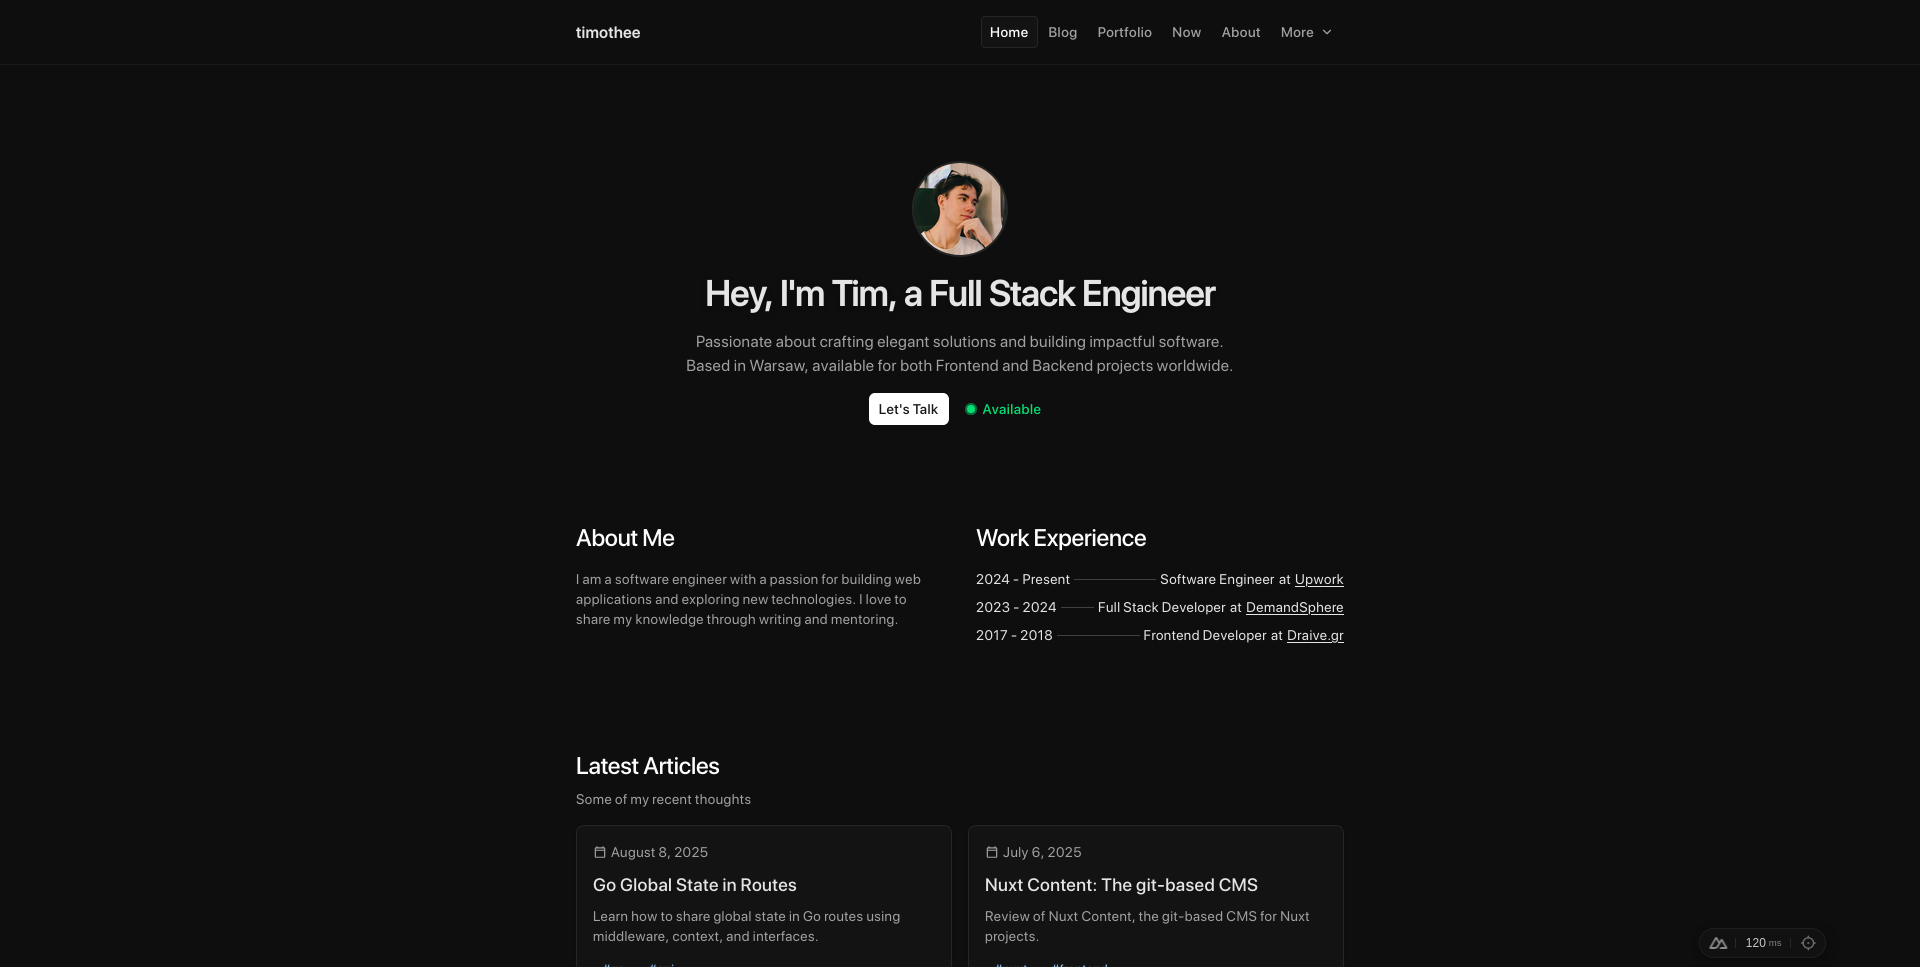
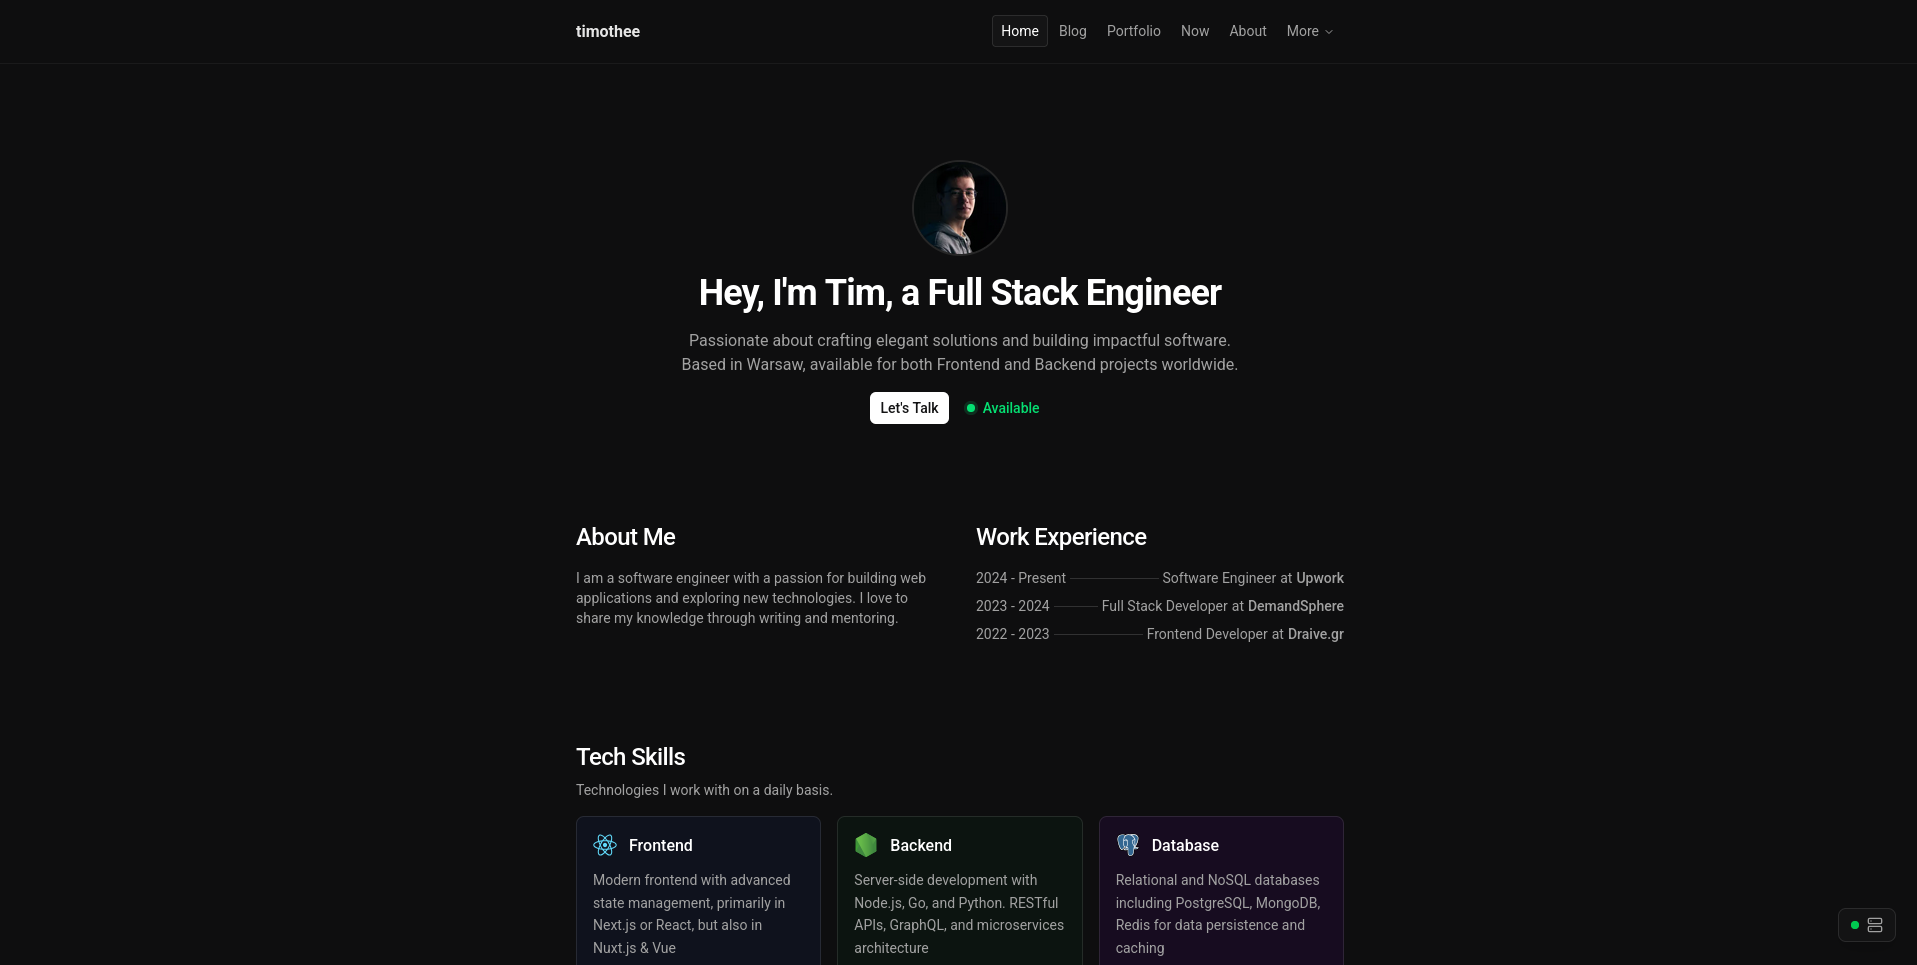
Version 0.1.0

diff --git a/app/components/skills/skills-bento.tsx b/app/components/skills/skills-bento.tsx
@@ -53,7 +53,7 @@ const SkillCard = ({
   return (
     <div
       className={cn(
-        "group relative overflow-hidden rounded-lg border bg-card p-4 transition-all duration-300 hover:shadow-md hover:border-muted-foreground/20",
+        "group relative overflow-hidden rounded-lg border bg-card p-4",
         category.bgColor,
         size === "large" && "p-6",
         size === "small" && "p-3"
@@ -96,15 +96,65 @@ const SkillCard = ({
 };
 
 const SkillsBento: React.FC<SkillsBentoProps> = ({ skills, className }) => {
+  // Group skills into rows for precise control over layout
+  const rows = [];
+  for (let i = 0; i < skills.length; i += 3) {
+    rows.push(skills.slice(i, Math.min(i + 3, skills.length)));
+  }
+  
   return (
     <div className={cn("w-full", className)}>
-      <div className="grid grid-cols-1 md:grid-cols-2 lg:grid-cols-3 gap-4">
-        {skills.map((skill) => (
-          <SkillCard key={skill.title} skill={skill} size="default" />
-        ))}
-      </div>
+      {rows.map((row, rowIndex) => (
+        <div 
+          key={`row-${rowIndex}`}
+          className="mb-4 last:mb-0"
+        >
+          {/* Mobile: 1 column layout */}
+          <div className="grid grid-cols-1 gap-4 md:hidden">
+            {row.map((skill) => (
+              <SkillCard key={`mobile-${skill.title}`} skill={skill} size="default" />
+            ))}
+          </div>
+          
+          {/* Tablet: 2 column layout with special handling for incomplete rows */}
+          <div className="hidden md:grid lg:hidden gap-4">
+            {row.length === 1 ? (
+              // Single item row - full width
+              <div className="grid grid-cols-1 gap-4">
+                <SkillCard key={`tablet-${row[0].title}`} skill={row[0]} size="default" />
+              </div>
+            ) : row.length === 2 ? (
+              // Two item row - split evenly
+              <div className="grid grid-cols-2 gap-4">
+                {row.map((skill) => (
+                  <SkillCard key={`tablet-${skill.title}`} skill={skill} size="default" />
+                ))}
+              </div>
+            ) : (
+              // Three item row - 2 columns (tablet can't fit 3 columns well)
+              <div className="grid grid-cols-2 gap-4">
+                <SkillCard key={`tablet-${row[0].title}`} skill={row[0]} size="default" />
+                <SkillCard key={`tablet-${row[1].title}`} skill={row[1]} size="default" />
+                <div className="col-span-2">
+                  <SkillCard key={`tablet-${row[2].title}`} skill={row[2]} size="default" />
+                </div>
+              </div>
+            )}
+          </div>
+          
+          {/* Desktop: 3 column layout with even distribution for incomplete rows */}
+          <div className="hidden lg:grid gap-4" 
+            style={{
+              gridTemplateColumns: row.length === 1 ? "1fr" : row.length === 2 ? "1fr 1fr" : "1fr 1fr 1fr"
+            }}
+          >
+            {row.map((skill) => (
+              <SkillCard key={`desktop-${skill.title}`} skill={skill} size="default" />
+            ))}
+          </div>
+        </div>
+      ))}
     </div>
   );
 };
-
 export default SkillsBento;

diff --git a/app/components/portfolio/project-card.tsx b/app/components/portfolio/project-card.tsx
@@ -1,14 +1,16 @@
 "use client";
 
 import Link from "next/link";
-import { useEffect, useState } from "react";
+import { useState } from "react";
 import { PortfolioItem } from "@/lib/types/data/portfolio";
-import { Calendar, ExternalLink, Github } from "lucide-react";
+import { Calendar, ExternalLink } from "lucide-react";
 import { Button } from "@/app/components/button";
 import { IconBrandGithub } from "@tabler/icons-react";
 import { formatDate } from "@/lib/utils";
 import ProjectState from "./project-state";
 import ImageModal from "../ImageModal";
+import Tag from "@/app/components/blog/shared/tag/tag";
+import Image from "next/image";
 
 type ProjectProps = PortfolioItem;
 
@@ -40,8 +42,15 @@ function ProjectCard(props: ProjectProps) {
             <p className="text-muted-foreground text-sm break-words hyphens-auto flex-1">
               {description}
             </p>
+            {tags && tags.length > 0 && (
+              <div className="flex flex-wrap gap-1.5">
+                {tags.map((tag, index) => (
+                  <Tag variant="subtle" key={`${tag}-${index}`} name={tag} />
+                ))}
+              </div>
+            )}
             <div className="flex gap-2 mt-auto pt-2">
-              {source && (
+              {source ? (
                 <Button variant="outline" size="sm" asChild>
                   <Link
                     href={source}
@@ -53,7 +62,14 @@ function ProjectCard(props: ProjectProps) {
                     Source
                   </Link>
                 </Button>
-              )}
+              ) : <>
+                <Button variant="outline" size="sm" disabled>
+                  <div className="flex items-center gap-1 py-1">
+                    <IconBrandGithub className="w-4 h-4 mr-1" />
+                    Private Repository
+                  </div>
+                </Button>
+              </>}
               {preview && (
                 <Button variant="outline" size="sm" asChild>
                   <Link
@@ -70,8 +86,22 @@ function ProjectCard(props: ProjectProps) {
             </div>
           </div>
           <div className="hidden sm:block rounded h-[125px] aspect-[16/9] shrink-0 overflow-hidden group">
-            {image && (
+            {/* {image && (
               <img
+                src={image}
+                alt={title}
+                className="object-cover h-full w-full cursor-zoom-in hover:opacity-80  transition-transform duration-300 group-hover:scale-105 select-none"
+                loading="lazy"
+                onClick={() => {
+                  setOpen(true);
+                }}
+              />
+            )} */}
+            {image && (
+              <Image
+                height={250}
+                width={250 * (16 / 9)}
+                quality={100}
                 src={image}
                 alt={title}
                 className="object-cover h-full w-full cursor-zoom-in hover:opacity-80  transition-transform duration-300 group-hover:scale-105 select-none"

diff --git a/app/components/github/github_heroSection.tsx b/app/components/github/github_heroSection.tsx
@@ -3,31 +3,15 @@ import GithubCalendar from "./githubCalendar";
 
 import Heading from "../heading";
 
-// const contributions = [
-//   {
-//     name: "@vercel/next.js",
-//     url: "https://github.com/vercel/next.js",
-//     reactIcon: RiNextjsFill,
-//   },
-//   {
-//     name: "@mui/material-ui",
-//     url: "https://github.com/mui/material-ui",
-//     icon: "/logos/material-ui.svg",
-//   },
-//   {
-//     name: "@pterm/pterm",
-//     url: "https://github.com/pterm/pterm",
-//     icon: "/logos/pterm.png",
-//   },
-// ];
+// todo: wire up heading and description from index page data
 
 function GitHeroSection() {
   return (
     <div className="w-full flex flex-col justify-center">
-      <Heading size="default" className="mb-4">
+      <Heading size="default" className="mb-2">
         My Open Source Journey
       </Heading>
-      <div className="text-muted-foreground mb-4 text-sm">
+      <div className="text-muted-foreground mb-6 text-sm">
         Each green square represents a day of contribution, a step towards
         better software for everyone.
       </div>

diff --git a/app/page.tsx b/app/page.tsx
@@ -59,8 +59,10 @@ export default async function Home() {
 
         {/* Skills Section */}
         <FadeIn delay={0.7}>
-          <Heading size="default" className="mb-2">{pageData.skills.title}</Heading>
-          <p className="text-balance text-left text-sm sm:text-md lg:text-sm text-muted-foreground mb-4">
+          <div className="mb-2">
+            <Heading size="default">{pageData.skills.title}</Heading>
+          </div>
+          <p className="text-balance text-left text-sm sm:text-md lg:text-sm text-muted-foreground mb-6">
             {pageData.skills.description}
           </p>
           <SkillsBento skills={pageData.skills.items} />
@@ -71,7 +73,7 @@ export default async function Home() {
           </Suspense>
         </FadeIn>
         <FadeIn delay={0.7}>
-          <div className="mb-8 flex items-start justify-between">
+          <div className="mb-6 flex items-start justify-between">
             <div>
               <Heading className="mb-2" size="default">
                 {pageData.blog.title}

diff --git a/app/components/blog/shared/tableOfContents-v2.tsx b/app/components/blog/shared/tableOfContents-v2.tsx
@@ -158,7 +158,7 @@ function TableOfContents() {
   const minLevel = Math.min(...headings.map((h) => h.level));
 
   return (
-    <nav className="sticky top-10 col-start-3 row-span-1 ml-10 mr-auto hidden h-[calc(100vh-5.5rem)] max-w-md xl:block">
+    <nav className="sticky top-10 col-start-3 row-span-1 ml-10 mr-auto hidden h-[calc(100vh-5.5rem)] max-w-md xl:block overflow-y-scroll pe-4">
       <p className="font-medium mb-2">On this page</p>
       <div
         ref={scrollContainerRef}

diff --git a/content/blog/deep-dives/nuxt_content.md b/content/blog/deep-dives/nuxt_content.md
@@ -10,16 +10,16 @@ tags:
 
 # @nuxt/content
 
-Nuxt Content is a module for Nuxt that provides a simple way to manage content for your application. It allows developers to write their content in Markdown, YAML, CSV or JSON files and then query and display it in their application.
+Nuxt Content is a powerful module for Nuxt that provides an elegant way to manage content for your application. It enables developers to write content in Markdown, YAML, CSV, or JSON files and seamlessly query and display it in their application.
 
-I personally discovered it while working on my website, and honestly, it's an amazing tool. If all your content is managed with `@nuxt/content`, it's super easy to build a unified search like you see on those cool websites callable using `ctrl+k` — every page, article, and word becomes searchable.
+I personally discovered it while working on my website, and honestly, it's an amazing tool. If all your content is managed with `@nuxt/content`, it's super easy to build that unified search feature you see on those cool websites (the one you can trigger with `ctrl+k`) — every page, article, and word becomes instantly searchable.
 
 # Guide
 
 ## Config File
 
-Let's start off by creating the `content.config.ts` file in the root of our `Nuxt` project.
-What you may not expect, is that all data we get from our files is statically typed, therefore is safe. But this does not happen without our help.
+Let's start by creating the `content.config.ts` file in the root of our `Nuxt` project.
+What you might not expect is that all data we get from our files is statically typed, making it type-safe. However, this doesn't happen automatically - we need to set things up correctly.
 
 ```ts
 const createImageSchema = () =>
@@ -59,16 +59,16 @@ export default defineContentConfig({
 });
 ```
 
-Everything we see here just makes sense - we just assign `objects` or `strings` where needed. When it comes to confusing `.editor({ input: "media" })` – in here you actually define a type of Editor Widget you would get when editing your content via the `Nuxt Studio`, the Visual Editor.
+The code above follows a logical structure - we're simply assigning `objects` or `strings` as needed for our schema. When you see the perhaps puzzling `.editor({ input: "media" })` syntax – this actually defines the type of Editor Widget you'll get when editing your content through `Nuxt Studio`, the Visual Editor for Nuxt Content.
 
-Also, I've seen people even writing types for buttons, so inside of `.yml` files people could use such syntax:
+I've also seen developers creating types for UI elements like buttons, which allows for clean, structured syntax in `.yml` files:
 
 ```yml
 hero:
-links:
-  - label: "More"
-    to: https://example.com/more
-    color: "neutral"
+  links:
+    - label: "More"
+      to: https://example.com/more
+      color: "neutral"
 ```
 
 Here is an example:
@@ -130,13 +130,13 @@ blog: defineCollection({
 // ...
 ```
 
-As you may already see, your config depends strictly from your components and their implementations.
+As you can see, your configuration is tightly coupled with your components and their implementations, creating a cohesive type system throughout your application.
 
 ## Usage
 
-Now each time you start your application, `@nuxt/content` will query every specified file from the `content` directory, and you will be able to easily query this data.
+Every time you start your application, `@nuxt/content` automatically queries all specified files from the `content` directory, making this data readily available throughout your application.
 
-This is how easily you can grab the `index` collection data from `index.yml`, mentioned in the config above:
+Here's how effortlessly you can retrieve the `index` collection data from the `index.yml` file mentioned in our earlier configuration:
 
 ```vue
 <template>
@@ -170,4 +170,5 @@ useSeoMeta({
 # Sources
 
 - Code Examples - [Nuxt Content Portfolio Template](https://github.com/nuxt-ui-pro/portfolio)
-- [Nuxt Content](https://content.nuxt.com/)
+- Official Documentation - [Nuxt Content](https://content.nuxt.com/)
+- My personal experience implementing Nuxt Content in production applications
